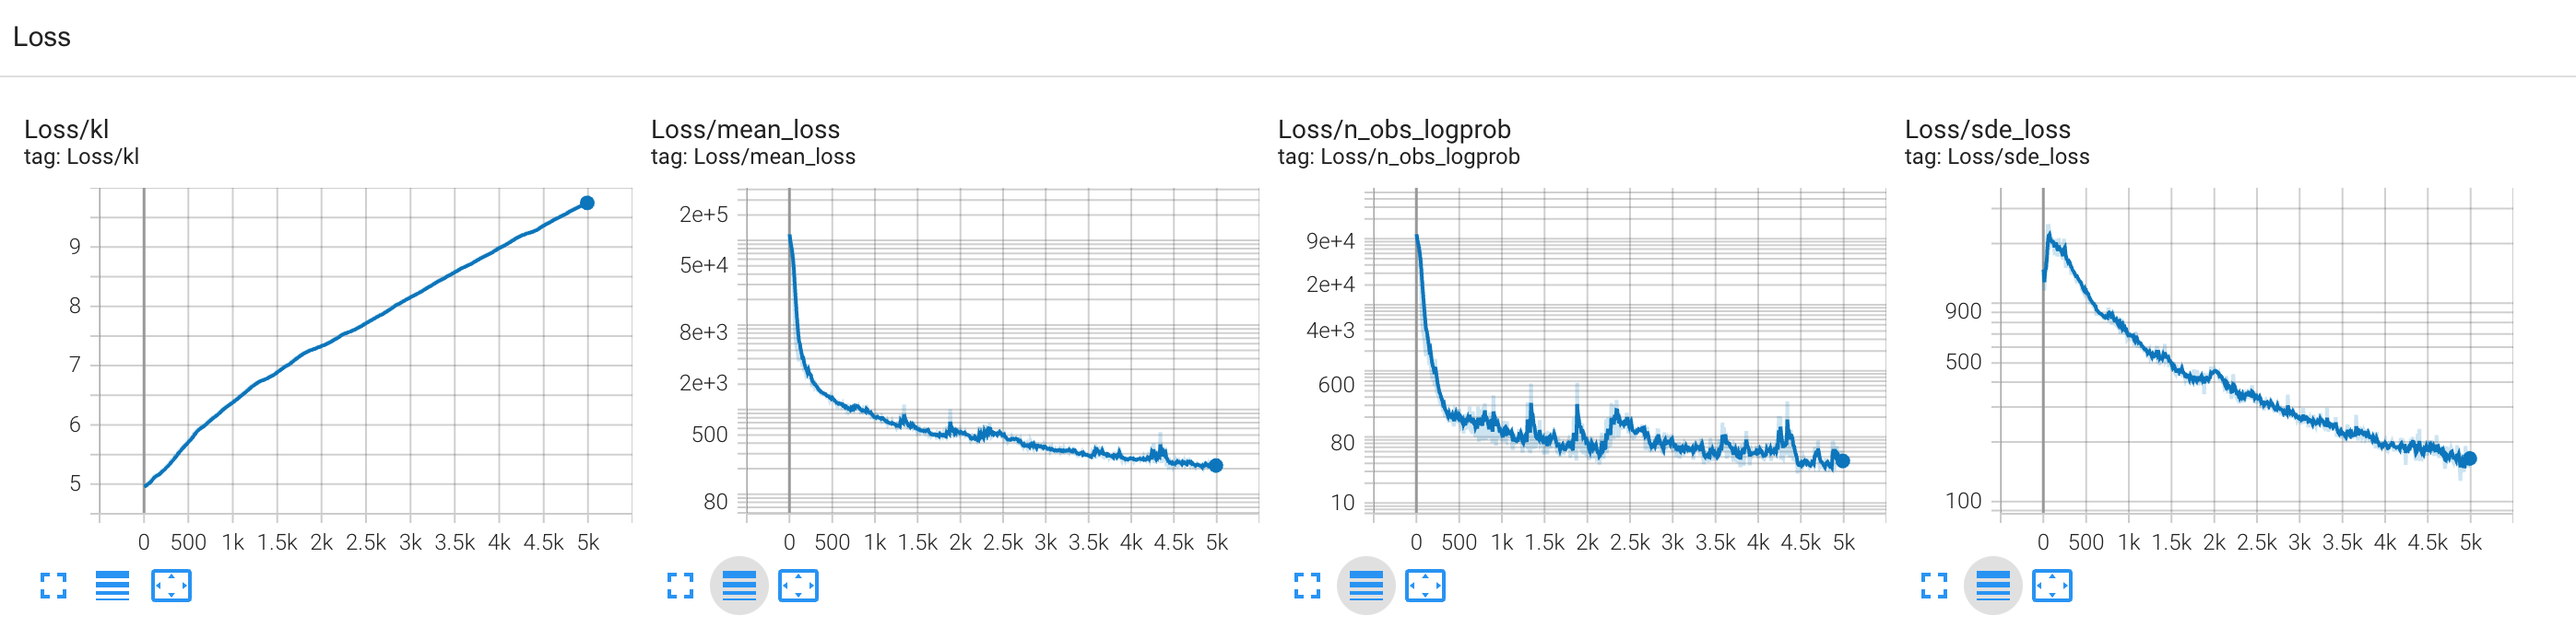
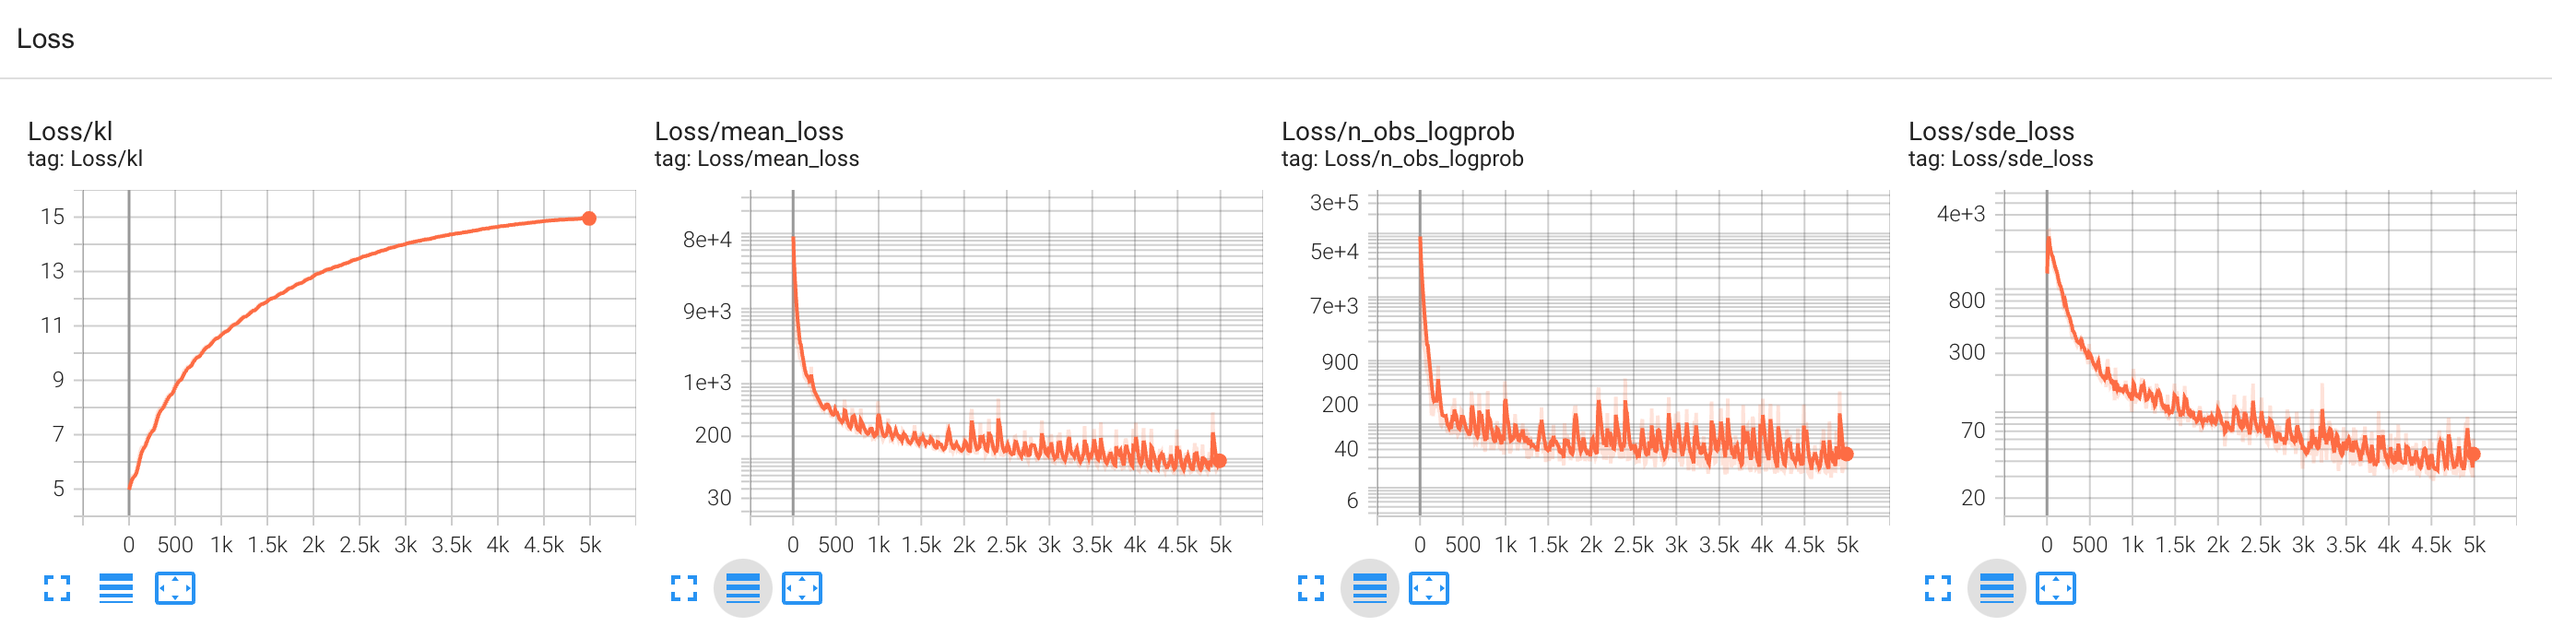
change settings of optimizer and scheduler

Changed region(s): [[0.0, 0.1821, 0.9942, 0.9711], [0.7457, 0.1821, 0.8389, 0.2731], [0.0, 0.0303, 0.0311, 0.091]]

diff --git a/lotka-volterra-torch/VI_for_SDEs.py b/lotka-volterra-torch/VI_for_SDEs.py
@@ -28,8 +28,9 @@ class Model():
         # print(features['feature_init'])
         # print(obs)
         self.SDE = LotkaVolterra(network_params, p, dt, obs, params, priors, features)
-        self.opt = torch.optim.Adam(self.SDE.parameters(), lr=1e-3)
-        self.scheduler = torch.optim.lr_scheduler.CosineAnnealingLR(self.opt, T_max=10, eta_min=0)
+        self.opt = torch.optim.Adam(self.SDE.parameters(), lr=1e-2)
+        self.scheduler = torch.optim.lr_scheduler.CosineAnnealingLR(self.opt, T_max=50, eta_min=0)
+        # self.scheduler = torch.optim.lr_scheduler.ExponentialLR(self.opt, gamma=0.95)
     
     def train_step(self, step):
         self.opt.zero_grad()
@@ -71,7 +72,7 @@ class Model():
                     # writer.add_scalar('params/theta/theta_1_mean', self.SDE.c1_mean.exp().item(), i)
                     # writer.add_scalar('params/theta/theta_2_mean', self.SDE.c2_mean.exp().item(), i)
                     # writer.add_scalar('params/theta/theta_3_mean', self.SDE.c3_mean.exp().item(), i)
-            if i % 50 == 1:
+            if i % 25 == 1:
                 with torch.no_grad():
                     vi_paths, _, _ = self.SDE._diff_bridge(Test=True)
                     theta1, _, theta2, _, theta3, _ \

diff --git a/README.md b/README.md
@@ -51,12 +51,13 @@ By saving the paths produced in training (not something the model will presently
 ![](figs/LV_paths.gif)
 
 * Using PyTorch 1.10.0:
-  
+  * optimizer: Adam with `lr=1e-2`
+  * scheduler: `CosineAnnealingLR(optimizer, T_max=50, eta_min=0)`
+  * iterations: 5,000 (about 30mins)
+   
 ![LV_paths](figs/LV_paths_torch.gif)
 
 ![loss](figs/loss_torch.png)
-
-> Note KL divergence had not been decreased yet (5,000 iterations)
 
 ![distribution of theta](figs/theta_torch.png)
 
